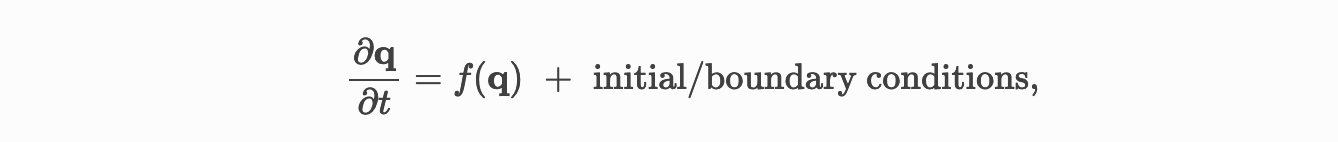
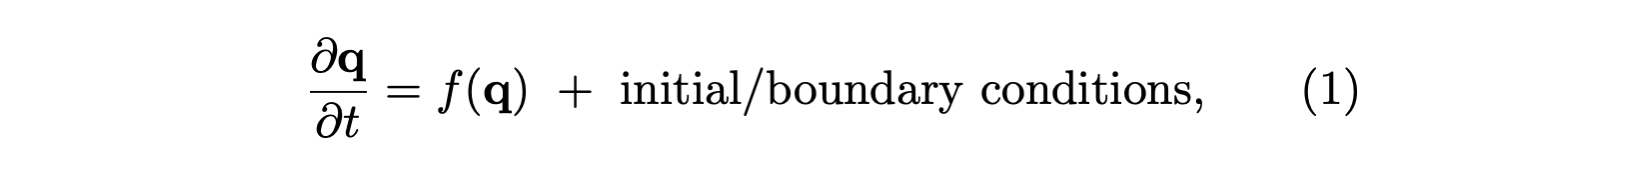
Readme update (#24)
* doc tag and typo fixes

* integrated text to the README and updated eq images

* restored the citing section

Changed region(s): [[0.1839, 0.2254, 0.8274, 0.8169], [0.1839, 0.5915, 0.2145, 0.8169]]

diff --git a/README.md b/README.md
@@ -1,8 +1,8 @@
 [![DOI](https://zenodo.org/badge/DOI/10.5281/zenodo.6720593.svg)](https://doi.org/10.5281/zenodo.6720593)
-
+[![Documentation Status](https://readthedocs.org/projects/dnami/badge/?version=latest)](https://dnami.readthedocs.io/en/latest/?badge=latest)
 # dNami
 **dNami** [di:nɑ:mi:] is an open-source multi-language (Python, Fortran, C) framework for solving systems of balance laws using explicit numerical schemes on structured meshes. 
-dNami uses MPI, loop-unrolling and cache blocking techniques to speed up stencil-based operations.
+dNami uses MPI, loop-unrolling and cache blocking techniques to speed up stencil-based operations. Spatial derivatives are constructed using a customisable finite-difference formulation. 
 
 <p align="center">
   <img src="./doc/usage/img/earth.gif" alt="earth.gif" />
@@ -24,6 +24,27 @@ in a flexible and efficient manner, where **``q``** ``in R^n`` is a vector of ``
 
 The ability of dNami to clearly separate the problem statement from its numerical implementation (often a major time sink in research laboratories) is rooted in the flexibility of the Python language so as to let the user define her/his own system of balance laws in the most natural way (i.e. using a human-readable syntax), which is then interpreted in Fortran to build a computationally-efficient library of the equation above which is callable from Python. Users can then easily interact with their own system of balance laws, including at runtime, thereby making it possible to integrate solutions to the equation above with other tools and libraries (e.g. optimisation and stability tools) to fully explore the properties of the system, seamlessly from small to large-scale calculations.
 
+
+## Why is dNami needed? 
+
+Code developments aimed at producing numerical solvers for Equation (1) typically follow two different strategies which usually involve two different communities. 
+
+For small-enough problems of the type of Equation (1), generic solutions provided by high-level languages may be used. Notable examples may be found in the vast offer provided by the scientific Python community. One of the reasons for the Python language success in computational science is its versatility to researchers’ computational needs (e.g. diverse object and data-type structures, various interactions with data at runtime using the large offer of tools from the community). However, a common major drawback is the inability to easily tackle problems involving a large number of degrees of freedom, which typically require highly efficient parallel capabilities. Note that solutions involving pre-compiled Python modules, see [SciPy project](https://doi.org/10.1038/s41592-019-0686-2), or just-in-time compilation, see [Numba project](https://doi.org/10.1145/2833157.2833162), exist but are most of the time restricted to workstation workflow and incompatible with large-scale computing of complex problems. 
+
+Thus, researchers targeting Equation (1) and requiring large-scale computing capabilities typically have to tackle the tedious problem of High-Performance Computing (HPC) development on their own. This is time consuming for a non-specialist and often results in conservative technical solutions that do not comply with the rapid evolution of hardware architecture that comes with continuous change of parallelisation paradigms. Alternatively, such researchers can collaborate with HPC specialists for the HPC-layer of the solver. Several examples of such fruitful joint efforts are available in the literature, see for instance [STREAmS](https://doi.org/10.1016/j.cpc.2021.107906) and [cuIBM](https://doi.org/10.21105/joss.00301) in Computational Fluid Dynamics (CFD). However, this approach often results in highly technical source codes, targeting specific problems that are difficult to modify in time (e.g. new ``f(``**``q``**``)``, new choice of boundary conditions). 
+
+A relatively recent trend aimed at maintaining HPC capabilities whilst providing user and problem-specific flexibilities is the use of Domain-Specific-Languages (DSL) libraries developed by HPC specialists to tackle  Equation (1). Examples of such approaches can be found in CFD, a notoriously HPC-intensive domain of computational physics e.g. [PyFR](https://doi.org/10.1016/j.cpc.2014.07.011), [HTR](https://doi.org/10.1016/j.cpc.2020.107733), [OpenSBLI](https://doi.org/10.1016/j.cpc.2021.108063). Other DSL-based solvers directly target Equation (1) e.g. [Dedalus](https://doi.org/10.1103/PhysRevResearch.2.023068) and [Coral](https://doi.org/10.21105/joss.02978). Although DSL approaches provide the versatility of the physical problem to solve and the efficient adaptability to modern hardware architectures, they do require users to learn the new DSL and drastically change paradigm in their developing approach. In addition, most DSL-based solutions rely on compiled binary executables produced from a low-level programming language (typically C or Fortran) to achieve their performance. They do not provide the flexibility of pre-compiled Python modules from the user point of view (especially at runtime). dNami aims at reconciling the DSL-based approach with all the advantages of a Python pre-complied module so as to solve general problems like Equation (1) on both small and large scales.
+
+## What does dNami offer? 
+
+At the core of dNami is the translation of symbolic expressions written in high-level Python language to discretise equations in low-level Fortran language. dNami employs explicit schemes to discretise differential operators. For the temporal derivative of Equation (1), a low-storage third order Runge--Kutta (RK) scheme is used (other explicit schemes may easily be implemented). Spatial derivatives are discretised using finite differences of arbitrary orders provided by the user. A choice between standard and optimised schemes (such as those in [Bogey and Bailly, 2004](https://doi.org/10.1016/j.jcp.2003.09.003)) is available. Both the governing equation in the form given above and the boundary conditions are specified symbolically. dNami automatically deals with stencil-size and order reduction close to boundaries using the user-specified symbolic equations, which removes the need for time-consuming and often problem-specific code development.
+
+The source-to-source translation is performed by a set of Python functions using regular expressions (see `genKer.py`). The produced discretised version of Equation (1) is then inserted into appropriate do-loops included in Fortran template files by pre-processing techniques. This simple yet effective strategy makes it possible for the HPC-layer to be tailored at the template-file level independently of Equation (1). Finally, the resulting Fortran source code is compiled as a shared library and optimised through the auto-optimisation process of modern Fortran compilers. A Python module is then created with a high-level interface of the shared library functions using [F2PY](https://doi.org/10.1504/IJCSE.2009.029165). It is important to stress that researchers can still follow a traditional development workflow, in a pure Fortran environment, either at the shared library level or inside the high-level interface. 
+
+dNami solves Equation (1) on structured grids. Parallelisation is then ensured via classical domain decomposition techniques through point-to-point MPI communications using  [mpi4py](https://doi/org/10.1109/MCSE.2021.3083216). Efficient vectorisation of intense stencil-based computations are achieved via manual loop unrolling (yet automatically done by `genKer.py`) and cache-blocking techniques following recommendations from [Andreolli, 2015](https://doi.org/10.1016/B978-0-12-802118-7.00023-6).
+
+Python is used at runtime to set up the run parameters and initial conditions. More importantly the time loop is exposed to Python, giving the user the freedom to interact with the computation inside the RK steps at run-time and to plug-in external libraries and/or output custom values with in-place data read and write between Python and Fortran. dNami's Python interface thus allows easy integration of pre-processing, co-processing and post-processing tools. 
+
 ## Citing the code
 
 If you use **dNami** for a scientific publication, please cite it using the [Zenodo reference](https://zenodo.org/record/6720593):
@@ -31,7 +52,7 @@ If you use **dNami** for a scientific publication, please cite it using the [Zen
 Bibtex:
 
 ```
-@software{alferez_nicolas_2022_6720593,
+@software{dNami,
 	author       = {Alferez, Nicolas and Touber, Emile and Winn, Stephen and Ali, Yussuf},
 	title        = {{dNami: a framework for solving systems of balance laws using explicit numerical schemes on structured meshes}},
 	month        = jun,
@@ -42,6 +63,7 @@ Bibtex:
 	url          = {https://doi.org/10.5281/zenodo.6720593}
 } 
 ```
+
 
 ## Dependencies
 
@@ -88,7 +110,7 @@ Build the documentation by changing into the doc directory and executing the fol
 ```bash
 make html
 ```
-After building the documentation the *_build/html* directory should contain the index.html startpage.
+After building the documentation the ``_build/html`` directory should contain the ``index.html`` startpage.
 
 
 ## Community guidelines 
@@ -100,8 +122,8 @@ We look forward to seeing dNami used to solve problems from many different field
 
 ### Extending the documentation
 
-If you want to add additional content to the documentation, add/edit *.rst* files in the *doc/usage*
-directory and also update *doc/index.rst* (if necessary). 
+If you want to add additional content to the documentation, add/edit ``.rst`` files in the ``doc/usage``
+directory and also update ``doc/index.rst`` (if necessary). 
 
 ### Issues and support  
 
